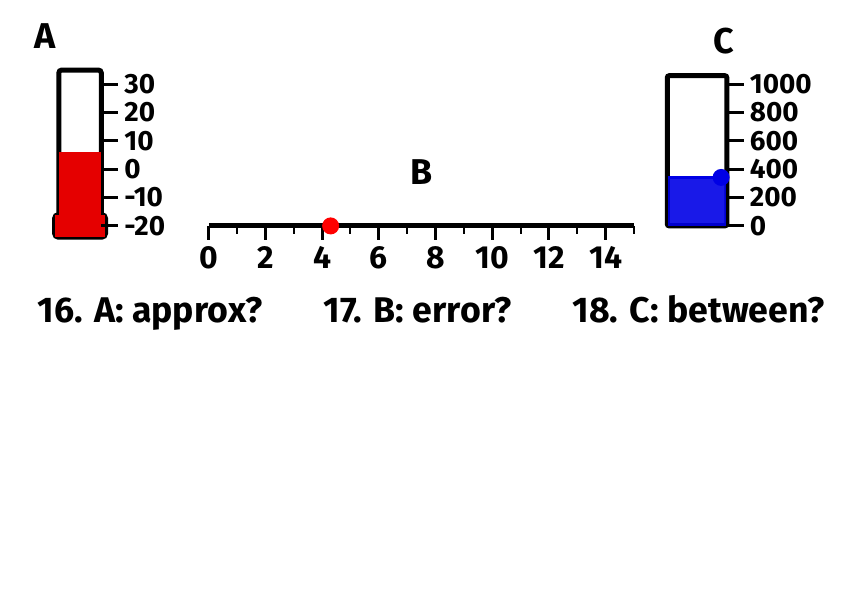
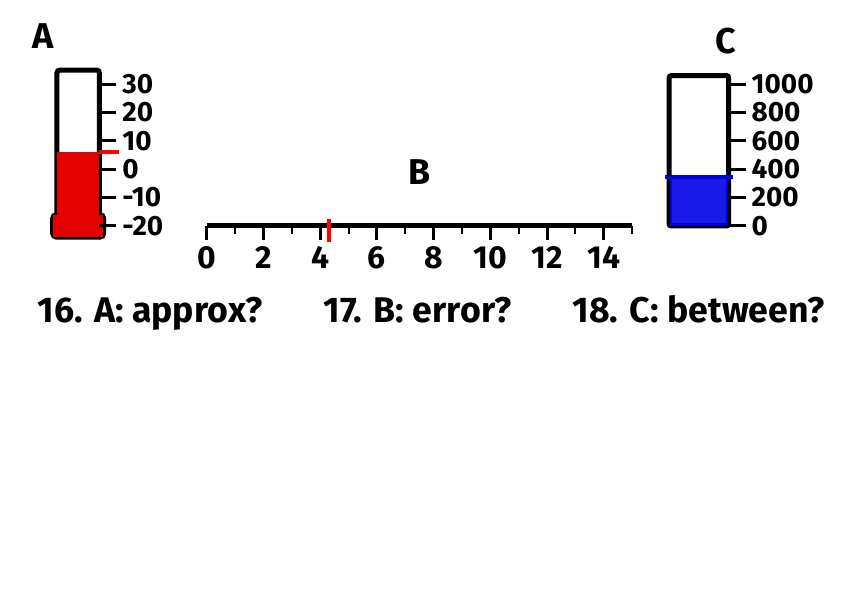
LO11: perpendicular cross-lines instead of dots - horizontal for therm/jug, vertical for ruler

diff --git a/OBJECTIVES/lo-yr9-reading-scales/proficient-questions.tex b/OBJECTIVES/lo-yr9-reading-scales/proficient-questions.tex
@@ -21,6 +21,8 @@
   \draw[line width=3pt] (2.0,\y)--(2.6,\y);
   \node[anchor=west,font=\bfseries\fontsize{28}{28}\selectfont,inner sep=3pt] at (2.7,\y) {\l};
 }
+% Perpendicular horizontal line at reading level
+\draw[red,line width=4pt] (2.0,#2/10+1)--(2.7,#2/10+1);
 \end{tikzpicture}}
 
 \newcommand{\Ruler}[2]{%
@@ -34,7 +36,8 @@
 \foreach \x in {1,3,5,7,9,11,13,15}{
   \draw[line width=2pt] (\x,0)--(\x,-0.3);
 }
-\fill[red] (#2,0) circle (0.3);
+% Perpendicular vertical line at reading position
+\draw[red,line width=4pt] (#2,0.25)--(#2,-0.55);
 \end{tikzpicture}}
 
 \newcommand{\MeasuringJug}[2]{%
@@ -48,7 +51,8 @@
 }
 \fill[blue!90!black,opacity=0.9] (0.52,0) rectangle (2.58,#2/222.2);
 \draw[blue!90!black,line width=3pt] (0.52,#2/222.2)--(2.58,#2/222.2);
-\fill[blue!90!black] (2.4,#2/222.2) circle (0.3);
+% Perpendicular horizontal line at water level
+\draw[blue!90!black,line width=4pt] (0.35,#2/222.2)--(2.75,#2/222.2);
 \end{tikzpicture}}
 \begin{document}
 \loTitle{Build Tasks}{2}
@@ -63,6 +67,7 @@
 \vspace{0.05em}
 \noindent
 \quad{\bfseries\LARGE 4. A: nearest big?}\hfill{\bfseries\LARGE 5. B: error?}\hfill{\bfseries\LARGE 6. C: between?}\quad\par
+\vspace{0.4em}
 \newpage
 \loTitle{Build Tasks}{2}
 \begin{center}
@@ -76,6 +81,7 @@
 \vspace{0.05em}
 \noindent
 \quad{\bfseries\LARGE 10. A: 16-18?}\hfill{\bfseries\LARGE 11. B: 6.7 mm?}\hfill{\bfseries\LARGE 12. C: 37 mL?}\quad\par
+\vspace{0.4em}
 \newpage
 \loTitle{Build Tasks}{2}
 \begin{center}
@@ -89,5 +95,6 @@
 \vspace{0.05em}
 \noindent
 \quad{\bfseries\LARGE 16. A: rise?}\hfill{\bfseries\LARGE 17. B: dist?}\hfill{\bfseries\LARGE 18. C: diff?}\quad\par
+\vspace{0.4em}
 \newpage
 \end{document}

diff --git a/OBJECTIVES/lo-yr9-reading-scales/foundation-questions.tex b/OBJECTIVES/lo-yr9-reading-scales/foundation-questions.tex
@@ -21,6 +21,8 @@
   \draw[line width=3pt] (2.0,\y)--(2.6,\y);
   \node[anchor=west,font=\bfseries\fontsize{28}{28}\selectfont,inner sep=3pt] at (2.7,\y) {\l};
 }
+% Perpendicular horizontal line at reading level
+\draw[red,line width=4pt] (2.0,#2/10+1)--(2.7,#2/10+1);
 \end{tikzpicture}}
 
 \newcommand{\Ruler}[2]{%
@@ -34,7 +36,8 @@
 \foreach \x in {1,3,5,7,9,11,13,15}{
   \draw[line width=2pt] (\x,0)--(\x,-0.3);
 }
-\fill[red] (#2,0) circle (0.3);
+% Perpendicular vertical line at reading position
+\draw[red,line width=4pt] (#2,0.25)--(#2,-0.55);
 \end{tikzpicture}}
 
 \newcommand{\MeasuringJug}[2]{%
@@ -48,7 +51,8 @@
 }
 \fill[blue!90!black,opacity=0.9] (0.52,0) rectangle (2.58,#2/222.2);
 \draw[blue!90!black,line width=3pt] (0.52,#2/222.2)--(2.58,#2/222.2);
-\fill[blue!90!black] (2.4,#2/222.2) circle (0.3);
+% Perpendicular horizontal line at water level
+\draw[blue!90!black,line width=4pt] (0.35,#2/222.2)--(2.75,#2/222.2);
 \end{tikzpicture}}
 \begin{document}
 \loTitle{Start Tasks}{1}
@@ -63,6 +67,7 @@
 \vspace{0.05em}
 \noindent
 \quad{\bfseries\LARGE 4. A: temp?}\hfill{\bfseries\LARGE 5. B: length?}\hfill{\bfseries\LARGE 6. C: volume?}\quad\par
+\vspace{0.4em}
 \newpage
 \loTitle{Start Tasks}{1}
 \begin{center}
@@ -76,6 +81,7 @@
 \vspace{0.05em}
 \noindent
 \quad{\bfseries\LARGE 10. A: reading?}\hfill{\bfseries\LARGE 11. B: mark?}\hfill{\bfseries\LARGE 12. C: unit?}\quad\par
+\vspace{0.4em}
 \newpage
 \loTitle{Start Tasks}{1}
 \begin{center}
@@ -89,5 +95,6 @@
 \vspace{0.05em}
 \noindent
 \quad{\bfseries\LARGE 16. A: approx?}\hfill{\bfseries\LARGE 17. B: error?}\hfill{\bfseries\LARGE 18. C: between?}\quad\par
+\vspace{0.4em}
 \newpage
 \end{document}

diff --git a/OBJECTIVES/lo-yr9-reading-scales/excellence-questions.tex b/OBJECTIVES/lo-yr9-reading-scales/excellence-questions.tex
@@ -21,6 +21,8 @@
   \draw[line width=3pt] (2.0,\y)--(2.6,\y);
   \node[anchor=west,font=\bfseries\fontsize{28}{28}\selectfont,inner sep=3pt] at (2.7,\y) {\l};
 }
+% Perpendicular horizontal line at reading level
+\draw[red,line width=4pt] (2.0,#2/10+1)--(2.7,#2/10+1);
 \end{tikzpicture}}
 
 \newcommand{\Ruler}[2]{%
@@ -34,7 +36,8 @@
 \foreach \x in {1,3,5,7,9,11,13,15}{
   \draw[line width=2pt] (\x,0)--(\x,-0.3);
 }
-\fill[red] (#2,0) circle (0.3);
+% Perpendicular vertical line at reading position
+\draw[red,line width=4pt] (#2,0.25)--(#2,-0.55);
 \end{tikzpicture}}
 
 \newcommand{\MeasuringJug}[2]{%
@@ -48,7 +51,8 @@
 }
 \fill[blue!90!black,opacity=0.9] (0.52,0) rectangle (2.58,#2/222.2);
 \draw[blue!90!black,line width=3pt] (0.52,#2/222.2)--(2.58,#2/222.2);
-\fill[blue!90!black] (2.4,#2/222.2) circle (0.3);
+% Perpendicular horizontal line at water level
+\draw[blue!90!black,line width=4pt] (0.35,#2/222.2)--(2.75,#2/222.2);
 \end{tikzpicture}}
 \begin{document}
 \loTitle{Push Tasks}{3}
@@ -63,6 +67,7 @@
 \vspace{0.05em}
 \noindent
 \quad{\bfseries\LARGE 4. Two readings?}\hfill{\bfseries\LARGE 5. B: mm prec?}\hfill{\bfseries\LARGE 6. C: add 200?}\quad\par
+\vspace{0.4em}
 \newpage
 \loTitle{Push Tasks}{3}
 \begin{center}
@@ -76,5 +81,6 @@
 \vspace{0.05em}
 \noindent
 \quad{\bfseries\LARGE 10. A: % error?}\hfill{\bfseries\LARGE 11. B: factor?}\hfill{\bfseries\LARGE 12. C: units?}\quad\par
+\vspace{0.4em}
 \newpage
 \end{document}
